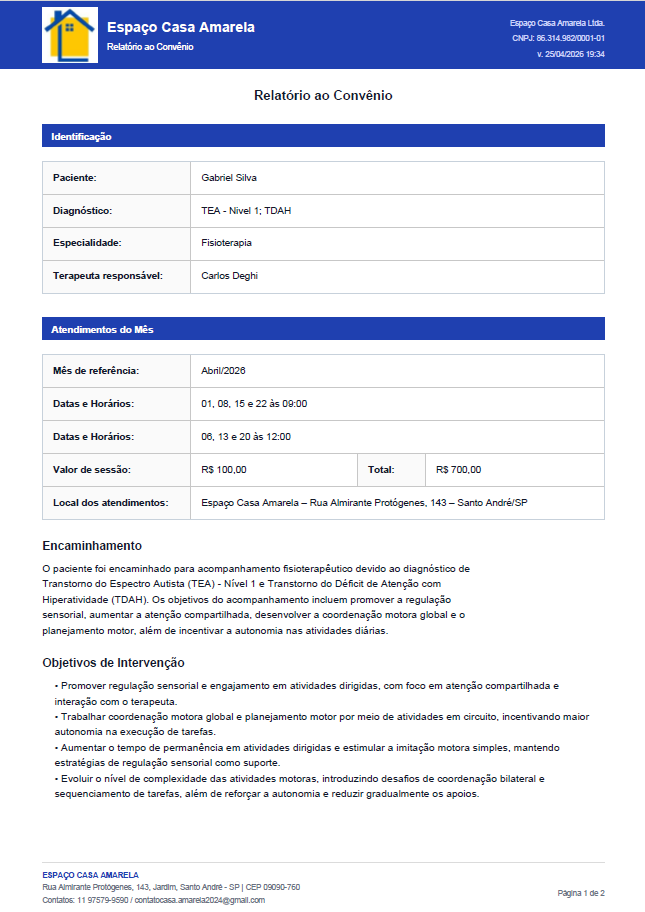
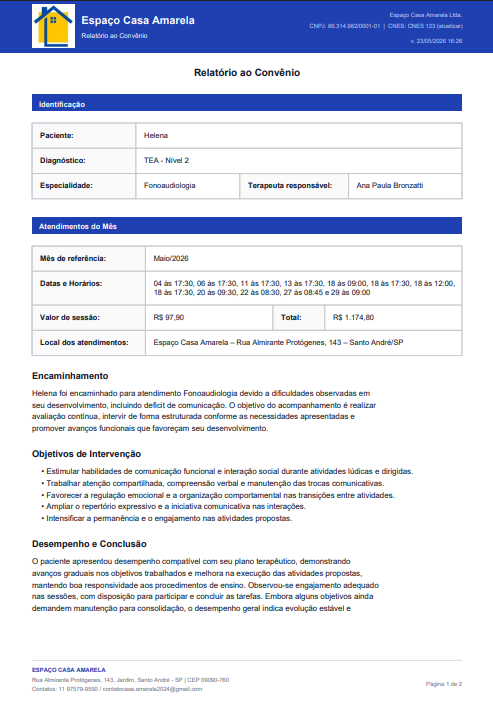
feat(guia): 20 módulos, imagens Pagamentos e Contatos + atualiza prints
- Hero: contador atualizado de 11 para 20 módulos integrados
- Seção Pagamentos (painel admin): adiciona Tela_Pagamentos.png
- Seção CRM de Contatos (painel admin): adiciona Tela_Contatos.png
- Atualiza prints: Atendimentos, Agenda, Tela Principal,
  Relatório Convênio, Relatório Paciente
- Adiciona nova imagem: Relatorio_Convenio_Confeccao_Relatorio.png

diff --git a/src/pages/admin/guide/GuidePageV2.jsx b/src/pages/admin/guide/GuidePageV2.jsx
@@ -273,7 +273,7 @@ export default function GuidePageV2() {
           <h1>Tudo que você precisa<br />para <span>cuidar melhor</span></h1>
           <p>Do agendamento ao relatório de convênio — uma plataforma completa criada especialmente para a equipe do Espaço Casa Amarela.</p>
           <div className="hero-stats">
-            {[['11', 'módulos\nintegrados'], ['IA', 'sugestão de texto\npara convênio'], ['PDF', 'relatórios prontos\npara download']].map(([num, lbl]) => (
+            {[['20', 'módulos\nintegrados'], ['IA', 'sugestão de texto\npara convênio'], ['PDF', 'relatórios prontos\npara download']].map(([num, lbl]) => (
               <div key={num} className="stat-chip">
                 <div className="num">{num}</div>
                 <div className="lbl" style={{ whiteSpace: 'pre-line' }}>{lbl}</div>
@@ -503,6 +503,7 @@ export default function GuidePageV2() {
           {/* CRM */}
           <p className="sec-title">📬 CRM de Contatos</p>
           <p className="sec-sub">Gerencie todos os leads que chegam pelo formulário do site público.</p>
+          <SectionImage src="/Tela_Contatos.png" alt="Tela de CRM de Contatos" />
           <div className="grid">
             <Card delay={0.05} icon="📥" bg="#eff6ff" title="Captação automática" desc="Todo contato enviado pelo site público aparece automaticamente. Um banner vermelho no dashboard avisa quando há novos contatos aguardando." tags={[['Integrado ao site', 'blue']]} />
             <Card delay={0.10} icon="🔄" bg="#f0fdf4" title="Workflow de status" desc="Acompanhe cada lead: Novo → Em Contato → Agendado → Convertido ou Sem Interesse. Notas internas e responsável por atendimento." tags={[['Pipeline', 'green']]} />
@@ -513,6 +514,7 @@ export default function GuidePageV2() {
           {/* Pagamentos */}
           <p className="sec-title">💳 Controle de Pagamentos</p>
           <p className="sec-sub">Histórico centralizado de todas as faturas geradas a partir dos Demonstrativos de Pagamento.</p>
+          <SectionImage src="/Tela_Pagamentos.png" alt="Tela de Controle de Pagamentos" />
           <div className="grid">
             <Card delay={0.05} icon="📄" bg="#eff6ff" title="Faturas registradas" desc="Cada Demonstrativo Definitivo gera uma fatura (NF) automaticamente. Acompanhe número da NF, paciente, período, total e status em uma lista paginada." tags={[['Histórico completo', 'blue']]} />
             <Card delay={0.10} icon="🔄" bg="#f0fdf4" title="Ciclo de vida da fatura" desc="Emitida → Paga (ao confirmar recebimento) ou Cancelada (restaura o status anterior dos atendimentos e limpa os campos de NF). Cada transição exige confirmação explícita." tags={[['Rastreável', 'green']]} />
